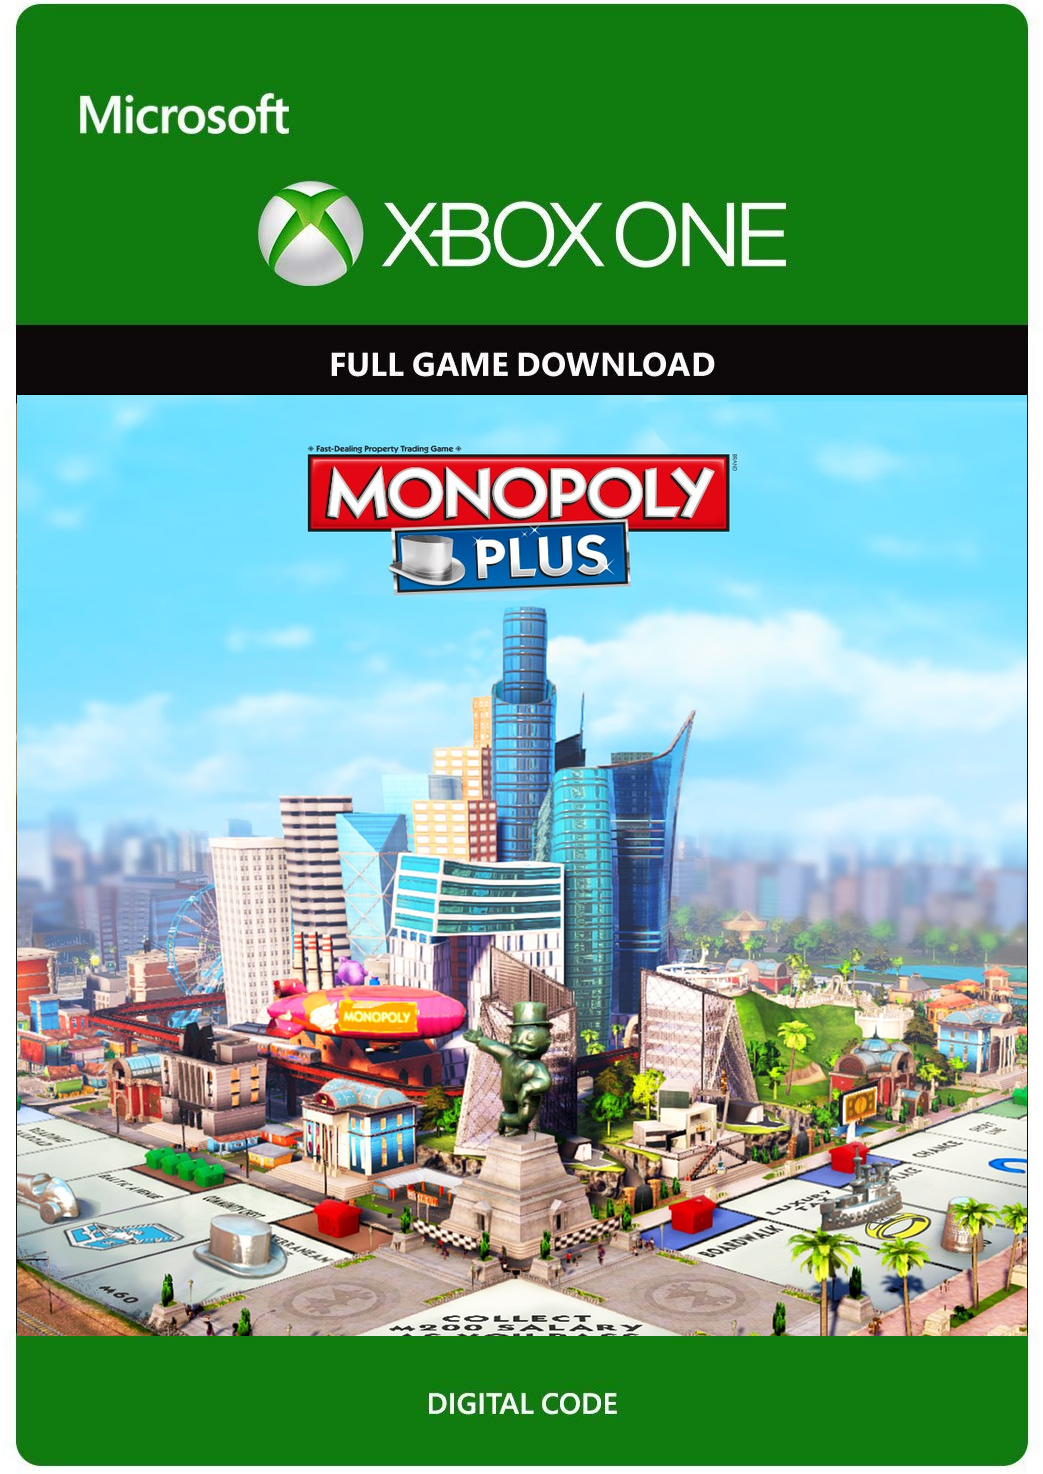
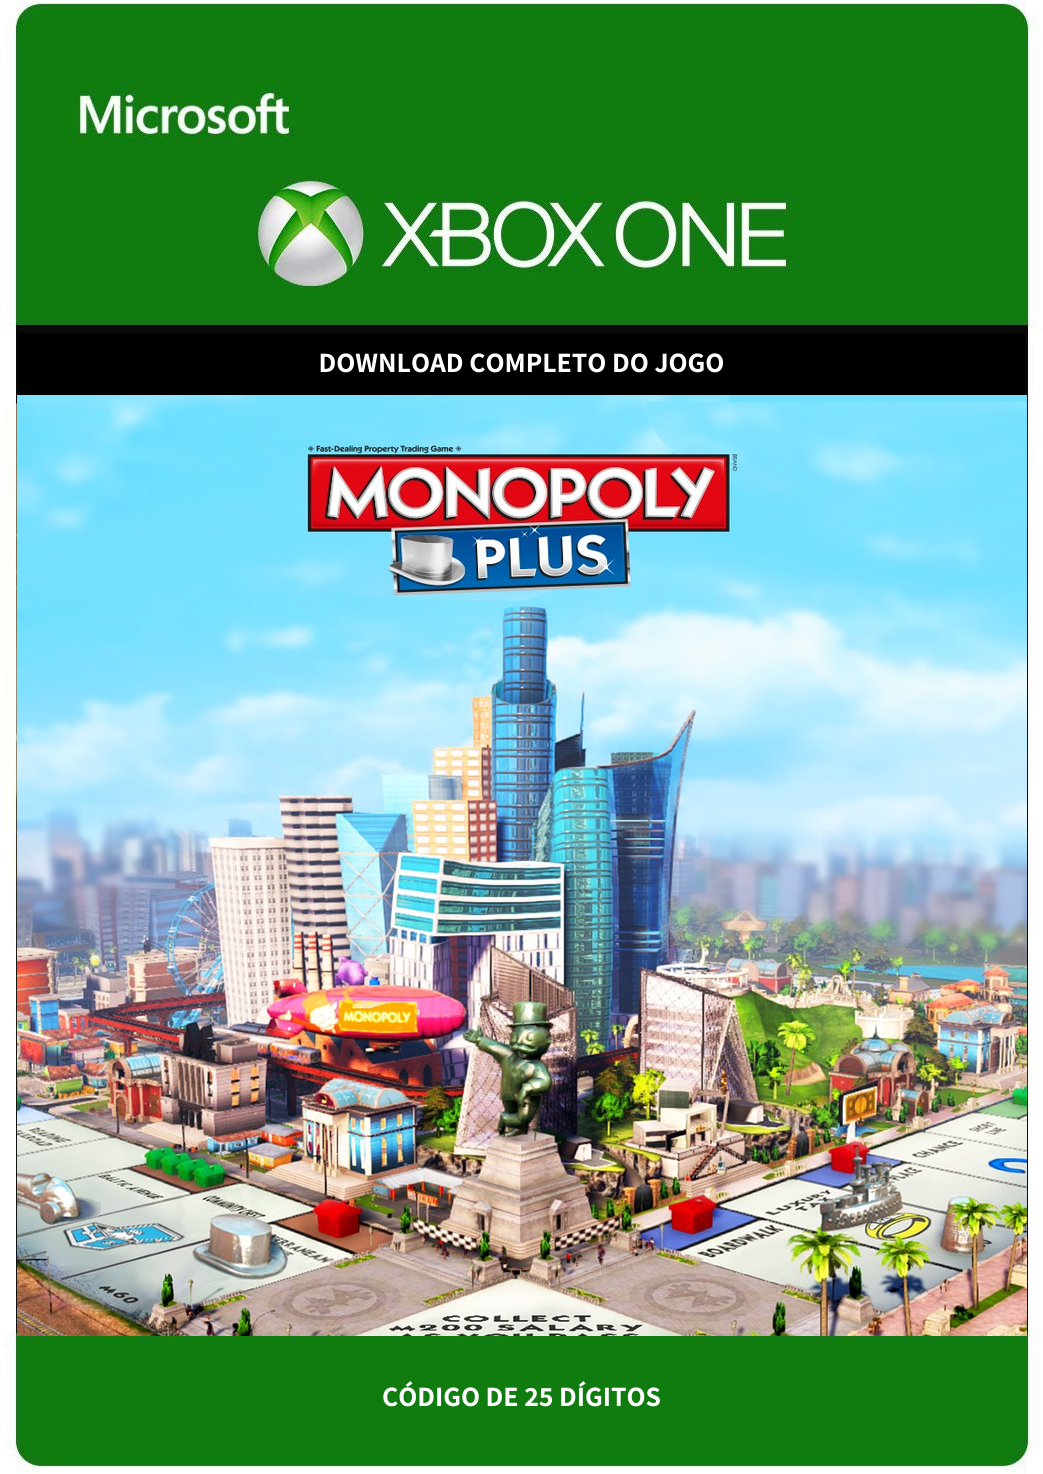
deploy imagem C0CB2CVZVSNR

Changed region(s): [[0.3068, 0.2185, 0.7057, 0.2809], [0.3682, 0.9362, 0.6443, 0.9674]]

diff --git a/description/C0CB2CVZVSNR.html b/description/C0CB2CVZVSNR.html
@@ -1,0 +1,62 @@
+<p style="font-family: 'Poppins', sans-serif; font-size: 1rem; color:gray">
+<iframe width="450" height="210" src="https://www.youtube.com/embed/nh-wOBN-TgE" title="YouTube video player" frameborder="0" allow="accelerometer; autoplay; clipboard-write; encrypted-media; gyroscope; picture-in-picture" allowfullscreen></iframe>
+<br><br>
+INFORMAÇÕES SOBRE O PRODUTO<br>
+===============================================<br>
+<br>
+Monopoly Plus (25 dígitos) Xbox One
+<br>Publicado por : UBISOFT
+<br>Desenvolvido por : Asobo Studio
+<br>Data de lançamento : 25/11/2014
+<br>Classificação etária : Para todas as idades
+<br>Categoria : Cartas e tabuleiro
+<br>Recursos: Multijogadores locais do Xbox (2-6), Multijogador online  (2-6)
+
+<br>O MONOPOLY da nova geração! Joga o clássico e observa o tabuleiro a ganhar vida! És proprietário de um mundo em miniatura que interagirá contigo à medida que jogas e festejas os teus feitos. Joga como gostas: podes alterar as regras para adaptá-las ao teu estilo de jogo. Escolhe uma das 6 principais regras da casa do catálogo. Venças ou percas, o jogo permite-te tirar capturas de ecrã em momentos chave para uma experiência social superior no jogo. MONOPOLY PLUS eleva a fasquia do clássico!
+
+Atenção: o modo online do MONOPOLY PLUS apenas está disponível para os possuidores do MONOPOLY PLUS.<br>
+<br>
+Fonte: Microsoft<br>
+<br>
+<br>
+- É um código de 25 dígitos único, exclusivo, nunca utilizado, que vai lhe dá o direito de resgatar o Jogo via Download;<br>
+- Após o resgate você pode instalar/desinstalar/reinstalar/jogar quantas vezes quiser e quando quiser;<br>
+- É um produto digital não é um disco físico, ou seja, não existe envio por correios;<br>
+- Quando finalizar o pagamento entre em contato via whatsapp com informações para confirmação do pagamento e recebimento do código do seu jogo;<br>
+- Após resgatar o Jogo ele fica registrado permanentemente em sua conta, não poderá ser transferido para outra pessoa;<br>
+- É preciso ter uma conta microsoft previamente criada e internet para fazer o resgate e download do Jogo;<br>
+- O Serviço da Xbox Live precisa estar ativo no momento do resgate, consulte antes;<br>
+- Jogos que tem multiplayer online você vai precisar ter assinatura Xbox Live Gold para jogar e isso é vendido separadamente;<br>
+- Jogos que não possuem multiplayer você vai poder jogar conectado ou desconectado da internet, sem se preocupar com banimento;<br>
+- Qualquer dúvida ou dificuldade nós forneceremos TODO o suporte necessário, nós ligamos pra você se você achar necessário;<br>
+<br>
+<br>
+PARA RESGATAR O CÓDIGO DE 25 DÍGITOS PELO NAVEGADOR<br>
+===============================================<br>
+<br>
+- Acesse o site de resgate de jogos da microsoft logado com a conta microsoft que deseja resgatar o Jogo;<br>
+- Digite o código de 25 dígitos no campo solicitado e clique em AVANÇAR;<br>
+- Será exibido uma imagem do Jogo e clicando em CONFIRMAR o Jogo é resgatado na sua conta;<br>
+<br>
+<br>
+PARA RESGATAR O CÓDIGO DE 25 DÍGITOS NO VIDEOGAME<br>
+===============================================<br>
+<br>
+- Acesse o videogame usando a conta microsoft que deseja resgatar o Jogo;<br>
+- Vá até STORE e clique no botão USAR UM CÓDIGO;<br>
+- Digite o código de 25 dígitos no campo solicitado e clique em AVANÇAR;<br>
+- Será exibido uma imagem do Jogo e clicando em CONFIRMAR o Jogo é resgatado na sua conta;<br>
+<br>
+<br>
+POLÍTICA DE DEVOLUÇÃO E REEMBOLSO<br>
+===============================================<br>
+<br>
+- Todos os códigos dos produtos que comercializamos são 100% digitais, originais, únicos e exclusivos. Isso nós garantimos pra você!;<br>
+- Nós não temos o poder de inutilizar o código em caso de desistência e qualquer pessoa que tenha ciência do código pode realizar o resgate do jogo;<br>
+- Por estes motivos nós não podemos realizar a devolução e nem reembolso de um produto digital;<br>
+- Antes de realizar a sua compra, nós recomendamos que tenha certeza de que o produto que esta comprando é o que realmente deseja;<br>
+- Recomendamos que antes de comprar consulte o video que disponibilizamos no anúncio, opinião de amigos ou opinião especializada;<br>
+- Realizando o pagamento via pix você concorda com todos os termos aqui descritos.<br>
+<br>
+<br>
+</p>

diff --git a/loja.html b/loja.html
@@ -261,14 +261,14 @@
                                 </div>
                             </div>
 
-                            <div class="col" style="display: none;">
+                            <div class="col">
                                 <div class="about-us-thumb wow fadeInUp" data-wow-delay="0.5s">
                                     <center>
-                                        <input type="hidden" id="CODIGO_[CODE]" value="[CODE]">
-                                        <img src="img/produtos/[CODE].png" alt="" width="200" height="100">
-                                        <h5 id="JOGO_[CODE]">[NAME]</h5>
-                                        <h6 id="VALOR_[CODE]"><span style="color:green">[VALOR]</span></h6>
-                                        <a href="#" id="comprar" class="btn fancy-btn fancy-dark" data-toggle="modal" data-target="#myModal" onclick="confirm(CODIGO_[CODE].value,JOGO_[CODE].innerText,VALOR_[CODE].innerText)">Comprar</a>
+                                        <input type="hidden" id="CODIGO_C0CB2CVZVSNR" value="C0CB2CVZVSNR">
+                                        <img src="img/produtos/C0CB2CVZVSNR.png" alt="" width="200" height="100">
+                                        <h5 id="JOGO_C0CB2CVZVSNR">Monopoly Plus (25 dígitos) Xbox One<br></h5>
+                                        <h6 id="VALOR_C0CB2CVZVSNR"><span style="color:green">R$ 58,00</span></h6>
+                                        <a href="#" id="comprar" class="btn fancy-btn fancy-dark" data-toggle="modal" data-target="#myModal" onclick="confirm(CODIGO_C0CB2CVZVSNR.value,JOGO_C0CB2CVZVSNR.innerText,VALOR_C0CB2CVZVSNR.innerText)">Comprar</a>
                                     </center>
                                 </div>
                             </div>
